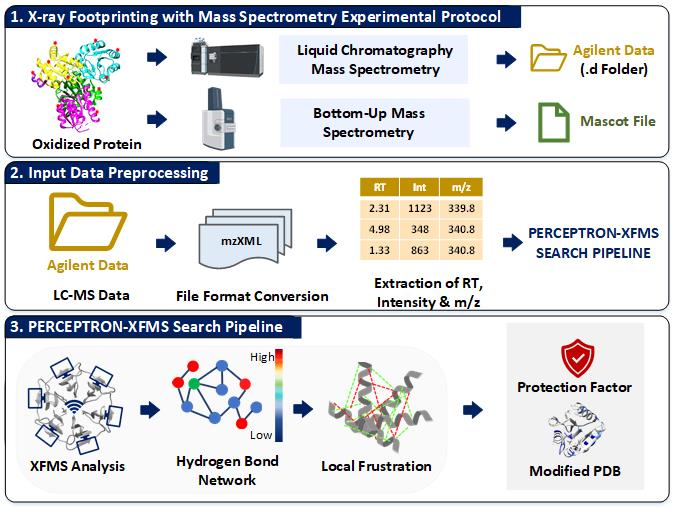
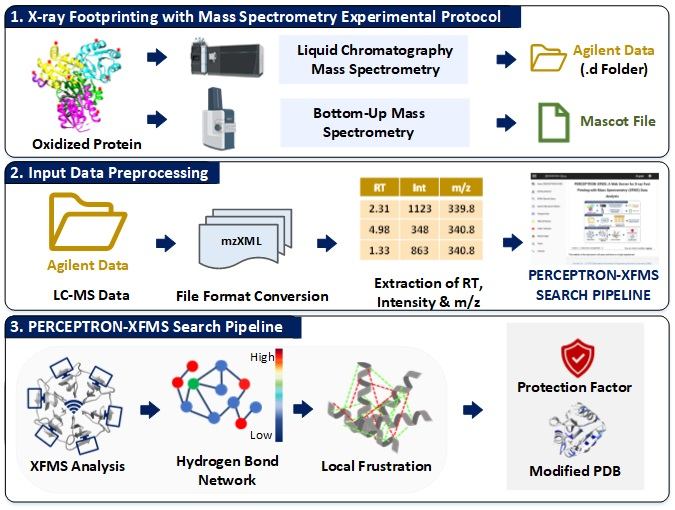
Updated

diff --git a/PerceptronXfmsFrontEnd/src/app/getting-started/getting-started.component.html b/PerceptronXfmsFrontEnd/src/app/getting-started/getting-started.component.html
@@ -13,9 +13,13 @@
         <h5 class="header">Step 1 – Agilent Input Files</h5><a href="assets/images/step_1a.jpg" class="to_right"
             download="step1"><i class="material-icons" style="vertical-align: text-bottom;">save_alt</i></a>
         <ul>
-            <li>Go to the ‘XFMS Search Query’ in the menu on left and enter ‘XFMS Search Title’ to start data analysis 
+            <li>Go to the ‘XFMS Search Query’ in the menu on left and input the search parameters to start data analysis 
             </li>
-            <li>Browse and upload Data file(s). Upload one file (.mzXML/ .mzML/ .MGF/ .txt/) to perform single file search or add a zipped folder with multiple peak-lists (zipped .txt files) to search in batch mode</li>
+            <li>
+
+            </li>
+            <li>For Replicate 1: Browse for the folder containing Agilent LC-MS “.d” data files or .mzXML files. Add a zipped folder with multiple files (zipped .d or .mzXML files) to search.
+                Browse and upload Data file(s). Upload one file (.mzXML/ .mzML/ .MGF/ .txt/) to perform single file search or add a zipped folder with multiple peak-lists (zipped .txt files) to search in batch mode</li>
             <li>Browse for the folder containing database(s) </li>
             <li>Select a Database to search from (e. g. Human)</li>
             <li>Enter a False Discovery Rate (FDR) percentage to shortlist identified proteoforms at desired FDR cut off</li>
@@ -125,7 +129,7 @@
         </ul>
         <img id="get5" src="assets/images/step_6.jpg" width="100%;" class="center">
             <div style="height:10px;font-size:1px;">&nbsp;</div> 
-        <p style="color:black">For help with interpreting proteoform search results, please visit <u><a style="font-style:italic" href="https://perceptron.lums.edu.pk/index.html#/help">here</a></u>.</p>
+        <p style="color:black">For help with interpreting search results, please visit <u><a style="font-style:italic" href="https://perceptronxfms.lums.edu.pk/index.html#/help">here</a></u>.</p>
            
 </mat-card>
 </div>

diff --git a/PerceptronXfmsFrontEnd/src/app/help/help.component.html b/PerceptronXfmsFrontEnd/src/app/help/help.component.html
@@ -53,7 +53,7 @@
                 <div style="height:10px; font-size:1px;">&nbsp;</div>
                 <mat-card>
                     <!-- <div style="height:10px;font-size:1px;">&nbsp;</div> -->
-                    <p style="font-size:16px;">For more information on using PERCEPTRON-XFMS, please refer to our <u><a style="font-style:italic" href="https://perceptron.lums.edu.pk/index.html#/youtube">video tutorials</a></u> or visit
+                    <p style="font-size:16px;">For more information on using PERCEPTRON-XFMS, please refer to our <u><a style="font-style:italic" href="https://perceptronxfms.lums.edu.pk/index.html#/youtube">video tutorials</a></u> or visit
                         <u><a style="font-style:italic" href="https://github.com/BIRL/PERCEPTRON-XFMS_v1.0.0.0/tree/main/Documentation">here</a></u> to download user manual and step by step guide.</p>
                 </mat-card>
             </div>

diff --git a/PerceptronXfmsFrontEnd/src/app/protein-search/protein-search.component.html b/PerceptronXfmsFrontEnd/src/app/protein-search/protein-search.component.html
@@ -16,13 +16,14 @@
     <div>
       <p style="font-size:12px; font-style: italic; color:red;">
         Required Fields *
+        <br>
+        Note: Users logging in via Guest Account can provide email address to receive results on Email ID upon search completion
       </p>
 
     </div>
     <mat-card>
       <mat-card-header>
-        <h4 style="padding-left:0px; font-size:21px; font-weight:bold; font-family: roboto, arial, sans-serif;">Basic
-          Parameters</h4>
+        <h4 style="padding-left:0px; font-size:21px; font-weight:bold; font-family: roboto, arial, sans-serif;">Search Parameters</h4>
         <!-- <span class="example-spacer"></span> -->
         <a mat-button matTooltip="Click to load sample query" (click)="LoadDefaults()" matTooltipPosition="after"
           style="color:cornflowerblue; text-decoration: underline;" name="Defaults" ngDefaultControl>Load Sample
